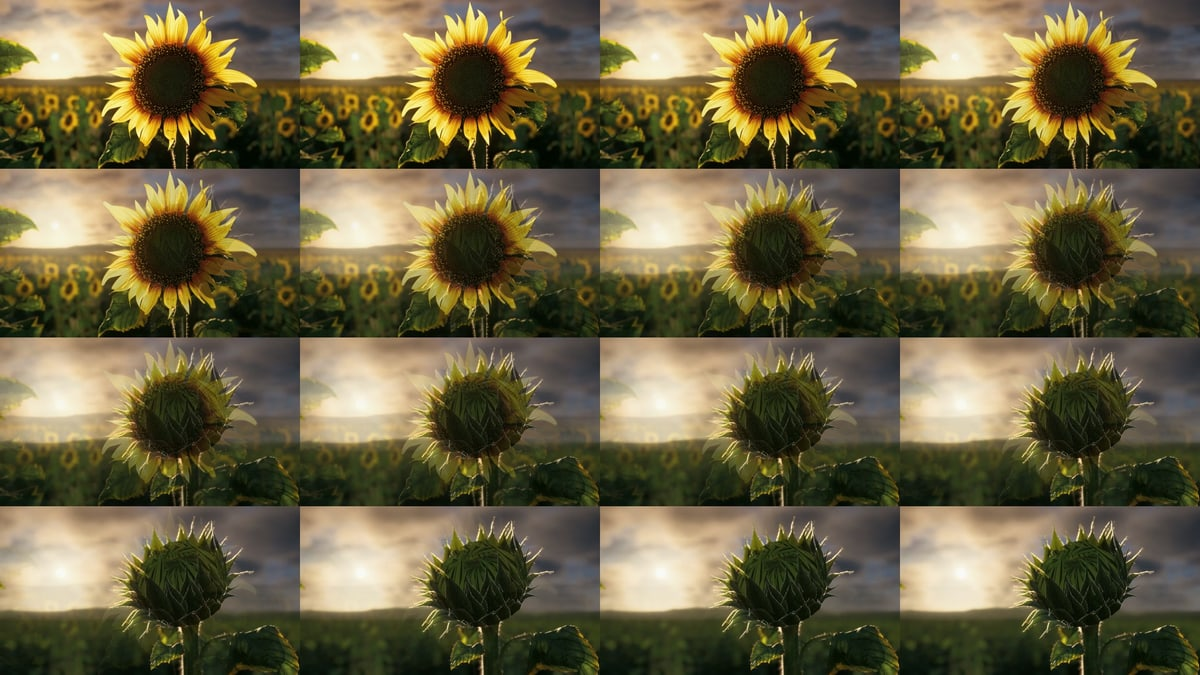
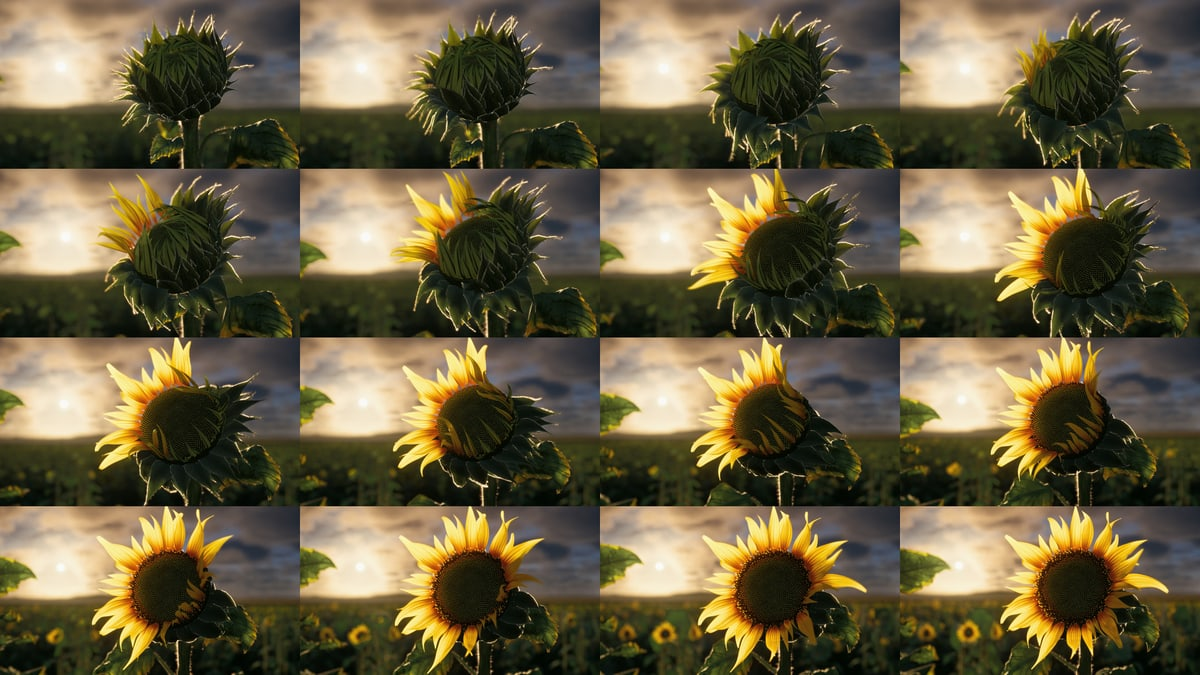
Status 59

diff --git a/kit/v2/PROGRESS.md b/kit/v2/PROGRESS.md
@@ -14,12 +14,13 @@ The Builder's memory for version 2. Read this first in every task, then `kit/v2/
 - App URL: not published (version 1 stays at https://sunflower-film.pplx.app until Brandon approves a swap)
 - Review preview: https://www.perplexity.ai/computer/a/sunflower-v2-review-4.i_CrGQQwCwaHeXEoIGIg
 - Last push: see `git log origin/v2`; one push with every status
-- Last status: 58 · 2026-11-23 23:44 UTC · Phase 6
+- Last status: 59 · 2026-11-24 00:00 UTC · Phase 6
 
 ## Latest pictures
 
 Newest first. Each line names the pictures of one status in `out/stills/status/`, with the time and the caption, so this page shows where the film is.
 
+- 2026-11-24 00:00 UTC · status 59 · Phase 6 · `status-1.jpg`: Clean redraw so far, 16 frames from 2905 to 3037: the bud opens; `status-2.jpg`: Clean redraw, frame 3037: the flower open; `status-3.jpg`: The clean still (frame 2905), a crop at full size
 - 2026-11-23 23:44 UTC · status 58 · Phase 6 · `status-1.jpg`: The loop cut: its last 16 of 22 frames, the open flower dissolves back to the bud; `status-2.jpg`: Frame 3009 at full size: left the film at one sample, right the clean redraw at 48 samples; `status-3.jpg`: Clean redraw, frame 3013: the flower nearly open
 - 2026-11-23 23:35 UTC · status 57 · Phase 6 · `status-1.jpg`: The card still, cut from the signed off film (frame 2905); `status-2.jpg`: The card clip, nine of its 208 frames, cut from the signed off film; `status-3.jpg`: The site built from a fresh clone of main, playing by itself; `status-4.jpg`: A frame of the clean redraw at 48 samples (3006)
 - 2026-11-23 23:09 UTC · status 56 · Phase 6 · `status-1.jpg`: Card clip at the export tier, twelve of the 82 frames that are in (2905 is the still); `status-2.jpg`: Card frame 2987 at the export tier, 48 samples a frame; `status-3.jpg`: Card frame 2952 at the export tier: the rays open from the left; `status-4.jpg`: The review page, rebuilt with the film's last checks
@@ -31,7 +32,6 @@ Newest first. Each line names the pictures of one status in `out/stills/status/`
 - 2026-11-23 20:59 UTC · status 50 · Phase 6 · `status-1.jpg`: Frame 1055, a frost close shot. Left the film as drawn here at one sample a frame, right the export look at 48 samples; `status-2.jpg`: Frame 236, the seedling at sunrise. Left the film as drawn here, right the export look; `status-3.jpg`: Frame 2780, the bud at dusk. Left the film as drawn here, right the export look; `status-4.jpg`: Frame 0, the opening. Left the film as drawn here, right the export look
 - 2026-11-23 20:47 UTC · status 49 · Phase 6 · `status-1.jpg`: Frame 3112, the open flower: the film as drawn here against the export look; `status-2.jpg`: Frame 60, the sprout: the film as drawn here against the export look; `status-3.jpg`: Frame 2880, the bud before the bloom: the film as drawn here against the export look; `status-4.jpg`: The private preview open in a browser, the film at frame 3000
 - 2026-11-23 20:33 UTC · status 48 · Phase 6 · `status-1.jpg`: Frame 1479, the film as drawn here against the export look; `status-2.jpg`: Frame 2957, the opening head; `status-3.jpg`: Frame 2096 at twice size: rain breaks into specks at the export look (a fault, being cured); `status-4.jpg`: Frame 3755, the last frame
-- 2026-11-23 20:16 UTC · status 47 · Phase 5 · `status-1.jpg`: Review page with the drawn film, the bar clock and the check results (built, not yet a link); `status-2.jpg`: Frost hold from a fixed camera, one row a shot (first, middle, last frame), then 45 frames after the hold; `status-3.jpg`: Clouds at frame 1479, three crops at full size, the film on the left and the cure on a side branch on the right
 
 ## Clock
 
@@ -45,8 +45,8 @@ Copied from the output of `npm run clock` at every status. Working time only.
 | 3 | 9.00 h | 9.17 h |
 | 4 | 8.50 h | 4.88 h |
 | 5 | 3.00 h | 3.08 h |
-| 6 | 4.00 h | 3.36 h |
-| Whole build | 30.00 h | 25.74 h |
+| 6 | 4.00 h | 3.63 h |
+| Whole build | 30.00 h | 26.02 h |
 
 Continuations and extensions are listed under this table with their own hours.
 
@@ -366,6 +366,7 @@ The thirteen looks of `config/showcase.json` and the frame each is judged at are
 - 2026-11-23 23:28 UTC. Brandon asks where the work stands and says the two things he asked for are taking too long (his words and how they were read are in `kit/v2/NOTES-FROM-BRANDON.md`). He is right about the time: the opening was with him at 22:27, and what is slow is the redraw of the card's 208 frames at 48 samples, which was the Builder's choice. He says not to change the plan, so the redraw goes on (100 of 208 in at 23:32). So that he does not wait, the still and the clip are cut out of the film he signed off (frames 2905 to 3112 of `out/work/film-16x9-draft.mp4`) and handed to him now; the clean ones replace them under the same names. Nothing new is started from here.
 - 2026-11-23 23:32 UTC. The live version at 320 x 180 on this machine (MEASURED, headless Chrome, software renderer, four cores, other jobs running; `out/work/checks/live-320-load.log`): it loads to Ready in 11 min 28 s. The sandbox's desktop browser stopped answering at 4 of 27 moments at the same address, so there it is not confirmed; the open item says so.
 - 2026-11-23 23:40 UTC. He wrote "a looping video". The clip he described on 21:19 runs from the bud to the open flower, so as a loop it would jump. Decided: both are delivered. The play once clip stays as he described it (208 frames, 6.93 s, ends on the open flower). Beside it a loop cut of the same frames: 208 frames and a smoothstep dissolve of 20 frames from the open flower back to the bud, 228 frames, 7.6 s; the last frame is 99.3 percent the bud, so the step back to the first frame is not seen. `tools/card.py` makes the still, both clips and both loop cuts in one pass and writes `card-proof.json`; it replaces the trial script. The interim files cut from the film were attached at 23:35.
+- 2026-11-24 00:01 UTC. Two checks on the card while the frames come in. MEASURED on the 107 clean frames that are in without a gap (2905 to 3011): the twelve machines leave no flicker; the second difference of the frame's mean level is 0.08 levels (rms) against 0.13 in the film's own frames, and a frame's deviation from the mean of its neighbours shows the same pattern in both. The clean frames are 1.1 levels darker in the mean than the film's (1.8 at frame 2905); the still and the clip are both cut from the clean frames, so they agree with each other. MEASURED in headless Chrome on the interim files (`out/work/card/hover/check.mjs`): the still as a picture and the clip paused on its first frame are 43.0 dB apart (1.2 levels of 255, 0.9 percent of the pixels over 8 levels), the clip plays to its end and no error is logged.
 
 ## Notes from Brandon
 
@@ -555,4 +556,6 @@ Rounds 1 to 26 belong to version 1 (`kit/PROGRESS.md`). Round 26, its record: R1
   Pictures: The card still, cut from the signed off film (frame 2905); The card clip, nine of its 208 frames, cut from the signed off film; The site built from a fresh clone of main, playing by itself; A frame of the clean redraw at 48 samples (3006).
 - Status 58, 2026-11-23 23:44 UTC, Phase 6. A loop version of the card clip is made and attached beside the play once clip: the same 208 frames and a dissolve of 20 frames from the open flower back to the bud, 228 frames, 7.6 s. MEASURED: its last frame stands at 42.0 dB against its first (1.3 levels of 255), so the repeat is not seen. One script now makes the still, both clips and both loop cuts and checks them (tools/card.py); it ran on the film's frames in 4 min. Clean redraw: 106 of 208 frames in, none bad, 700 s a frame, last one expected about 01:20 UTC. Frames drawn for this status: 0. Next: Take in the clean frames as they arrive. When all 208 are in: encode the still, the clips and the loop cuts from them, check them, replace the interim files under the same names, commit them, merge into main, final summary. Time used: 25.7 h of 30 h.
   Pictures: The loop cut: its last 16 of 22 frames, the open flower dissolves back to the bud; Frame 3009 at full size: left the film at one sample, right the clean redraw at 48 samples; Clean redraw, frame 3013: the flower nearly open.
+- Status 59, 2026-11-24 00:00 UTC, Phase 6. Clean redraw: 130 of 208 frames in, none bad, 703 s a frame; every machine has sent its eleventh frame and the last one is expected about 01:20 UTC. MEASURED on the 107 clean frames that are in without a gap (2905 to 3011): no flicker between the twelve machines (the mean level changes more evenly from frame to frame than in the film, 0.08 against 0.13 levels). MEASURED in a browser on the interim files: the clip paused on its first frame and the still are 43.0 dB apart (1.2 levels of 255), so the swap on hover is not seen. Frames drawn for this status: 0. Next: Take in the last 78 clean frames. Then encode the still, the clips and the loop cuts from them, check them, replace the interim files under the same names, commit them, merge into main, final summary. Time used: 26.0 h of 30 h.
+  Pictures: Clean redraw so far, 16 frames from 2905 to 3037: the bud opens; Clean redraw, frame 3037: the flower open; The clean still (frame 2905), a crop at full size.
 

diff --git a/out/stills/status/STATUS.md b/out/stills/status/STATUS.md
@@ -1,11 +1,11 @@
-# Status 58
+# Status 59
 
-2026-11-23 23:44 UTC
+2026-11-24 00:00 UTC
 
-- Status 58 · Phase 6. A loop version of the card clip is made and attached beside the play once clip: the same 208 frames and a dissolve of 20 frames from the open flower back to the bud, 228 frames, 7.6 s. MEASURED: its last frame stands at 42.0 dB against its first (1.3 levels of 255), so the repeat is not seen. One script now makes the still, both clips and both loop cuts and checks them (tools/card.py); it ran on the film's frames in 4 min. Clean redraw: 106 of 208 frames in, none bad, 700 s a frame, last one expected about 01:20 UTC. Frames drawn for this status: 0.
-- Next: Take in the clean frames as they arrive. When all 208 are in: encode the still, the clips and the loop cuts from them, check them, replace the interim files under the same names, commit them, merge into main, final summary. Time used: 25.7 h of 30 h.
+- Status 59 · Phase 6. Clean redraw: 130 of 208 frames in, none bad, 703 s a frame; every machine has sent its eleventh frame and the last one is expected about 01:20 UTC. MEASURED on the 107 clean frames that are in without a gap (2905 to 3011): no flicker between the twelve machines (the mean level changes more evenly from frame to frame than in the film, 0.08 against 0.13 levels). MEASURED in a browser on the interim files: the clip paused on its first frame and the still are 43.0 dB apart (1.2 levels of 255), so the swap on hover is not seen. Frames drawn for this status: 0.
+- Next: Take in the last 78 clean frames. Then encode the still, the clips and the loop cuts from them, check them, replace the interim files under the same names, commit them, merge into main, final summary. Time used: 26.0 h of 30 h.
 - Review page, private preview: https://www.perplexity.ai/computer/a/sunflower-v2-review-4.i_CrGQQwCwaHeXEoIGIg
 
-- `status-1.jpg`: The loop cut: its last 16 of 22 frames, the open flower dissolves back to the bud
-- `status-2.jpg`: Frame 3009 at full size: left the film at one sample, right the clean redraw at 48 samples
-- `status-3.jpg`: Clean redraw, frame 3013: the flower nearly open
+- `status-1.jpg`: Clean redraw so far, 16 frames from 2905 to 3037: the bud opens
+- `status-2.jpg`: Clean redraw, frame 3037: the flower open
+- `status-3.jpg`: The clean still (frame 2905), a crop at full size
